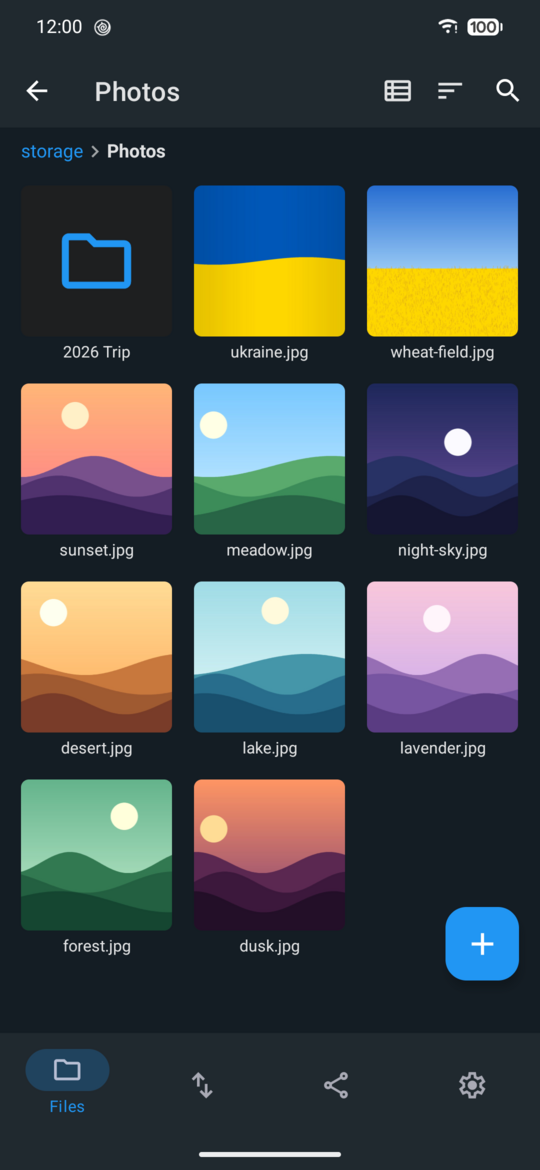
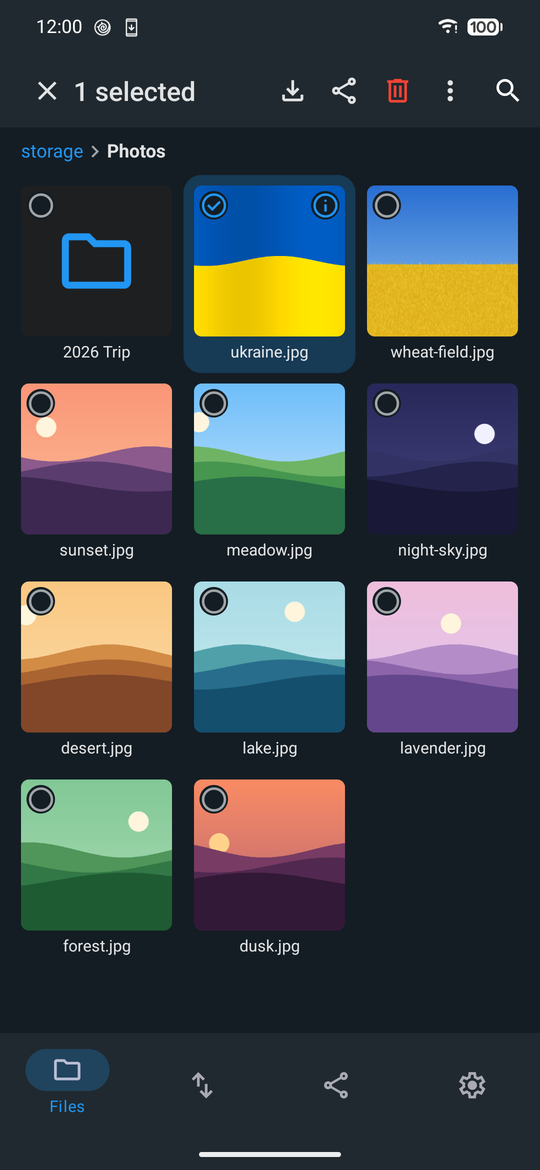
docs(readme): refresh the grid screenshot and show the shares tab

diff --git a/README.md b/README.md
@@ -7,9 +7,9 @@ The app covers everyday file work. Server administration, user management and th
 stay in the web UI.
 
 <p align="center">
-  <img src="docs/screenshots/photos.png" width="200" alt="Photos folder in grid view with thumbnails">
+  <img src="docs/screenshots/photos.png" width="200" alt="Photos folder in grid view, one photo selected with its info button">
   <img src="docs/screenshots/actions.png" width="200" alt="Actions for a file">
-  <img src="docs/screenshots/share.png" width="200" alt="A share with its preview and download links">
+  <img src="docs/screenshots/shares.png" width="200" alt="Shares tab with a card per link, its creation date and expiry">
   <img src="docs/screenshots/settings.png" width="200" alt="Settings with storage usage, one source almost full">
 </p>
 
